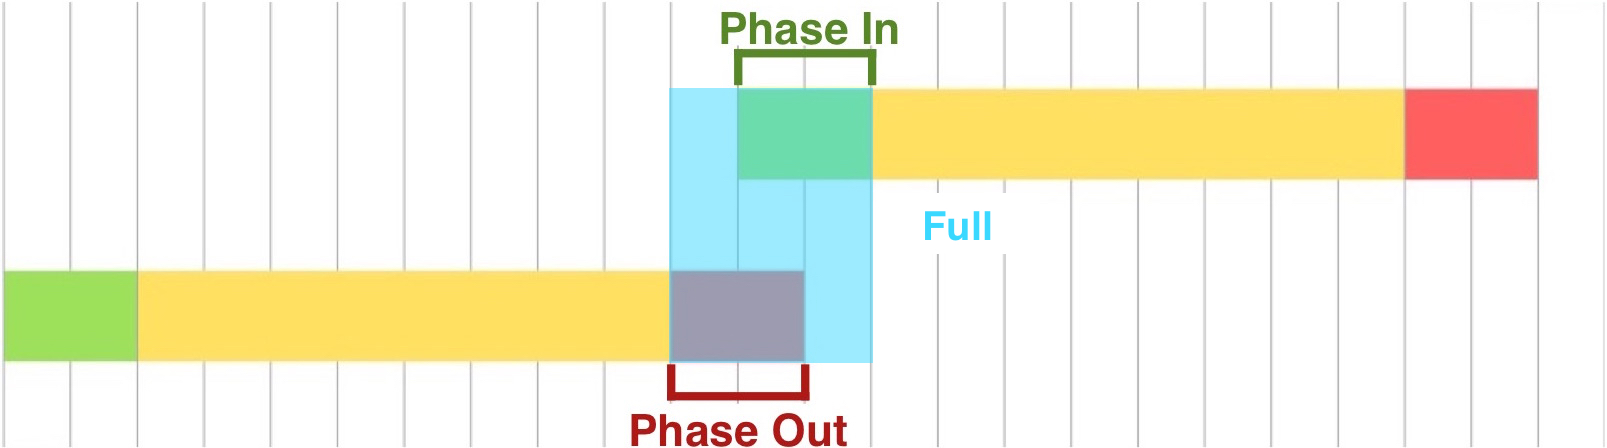
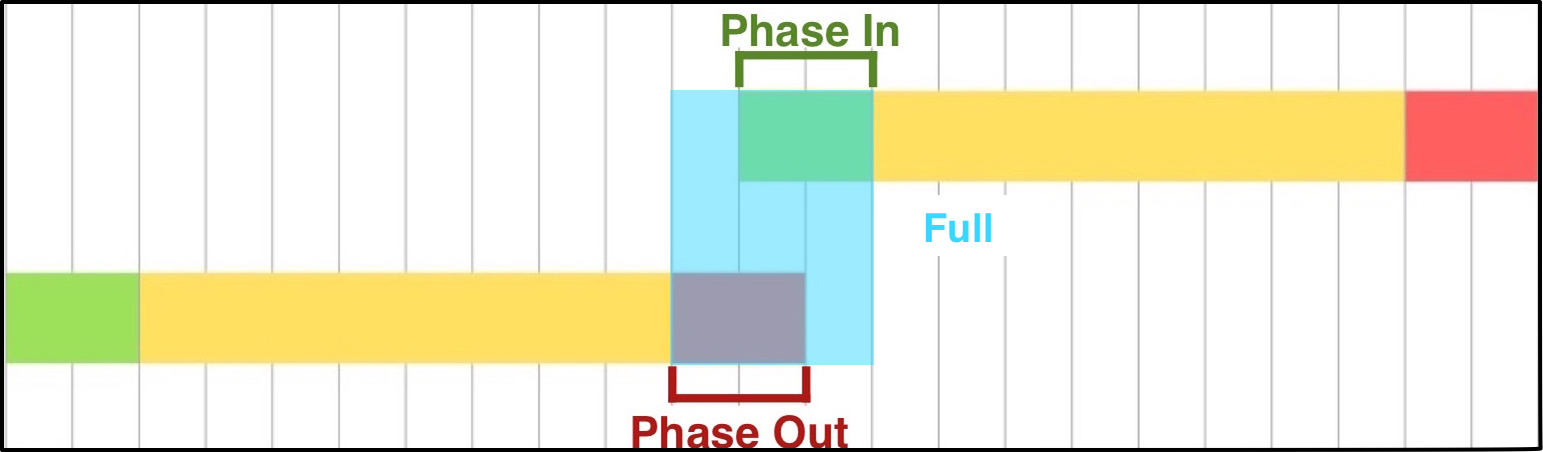
ReadMe md 10

Changed region(s): [[0.0, 0.0, 1.0, 1.0]]

diff --git a/README.md b/README.md
@@ -1,7 +1,7 @@
 # Ixhibition
 *Image Exhibition*
 
-A Javascript and CSS3 Animation based image gallery, providing control over the transitioning/seguing of slides.
+A Javascript generated CSS3 Animation based image gallery, providing control over the transitioning/seguing of slides.
 <br />
 ###Overview
 Ixhibition is an image gallery generated in Javascript and powered by CSS3 Animations, with the additional advantage of being able to set custom and desired animations using CSS3 Animation supported attributes. Ixhibition is also intended to serve as a core library on which additional packages may be developed, for additional and/or specific functionality, including providing a more animation sets and for connecting to other APIs and libraries.
@@ -13,6 +13,10 @@ Ixhibition has been developed with the goal of reducing as much Javascript inter
 <br />
 <br />
 #Using Ixhibition
+##Logic
+The following example provides a general overview of the logic used by Ixhibition:
+<img src="Resources/TimeGraph.jpeg"/>
+
 ##Getting Started
 Firstly, before instantiating the library in javascript, a `<div>` tag with an ID must be created for the library to use. By default, the library looks for a `<div>` tag with the ID *"ixhibition"*, however another ID value can be used as long as it is passed when the library is instantiated.
 <br/>Instantiation will populate the assigned div tag, and will append `<style>` tags to the head in which the associated CSS will be injected in, including the animations.
@@ -70,14 +74,14 @@ There are 5 built in segue (transition) animations which dictate the transitioni
 </table>
 
 ##Setting Display Duration
-In order to set the display duration, a positive number must be set as the parameter:
+In order to set the display duration (in seconds), a positive number must be set as the parameter:
 ```javascript
 ixb.setDisplayDuration(4);
 ```
 <img src="Resources/Display.jpeg"/>
 
 ##Setting Phases
-Phase values (phaseIn and phaseOut) indicate the duration values for transitioning in and out for a slide respectively. Only positive numbers are accepted for these values.
+Phase values (phaseIn and phaseOut) indicate the duration values (in seconds) for transitioning in and out for a slide respectively. Only positive numbers are accepted for these values.
 ```javascript
 var phaseIn_duration = 2,
     phaseOut_duration = 2;
@@ -154,7 +158,7 @@ var phaseIn_animation = [
 ```
 
 ##Setting Phase Overlap
-The phase overlap dictates how much of the phaseOut duration of the phasing-out slide and how much of the phaseIn duration of the phasing-in slide overlap.
+The phase overlap dictates how much of the phaseOut duration of the phasing-out slide and how much of the phaseIn duration of the phasing-in slide overlap in seconds.
 
 ```javascript
 ixb.setPhaseOverlap(1);
